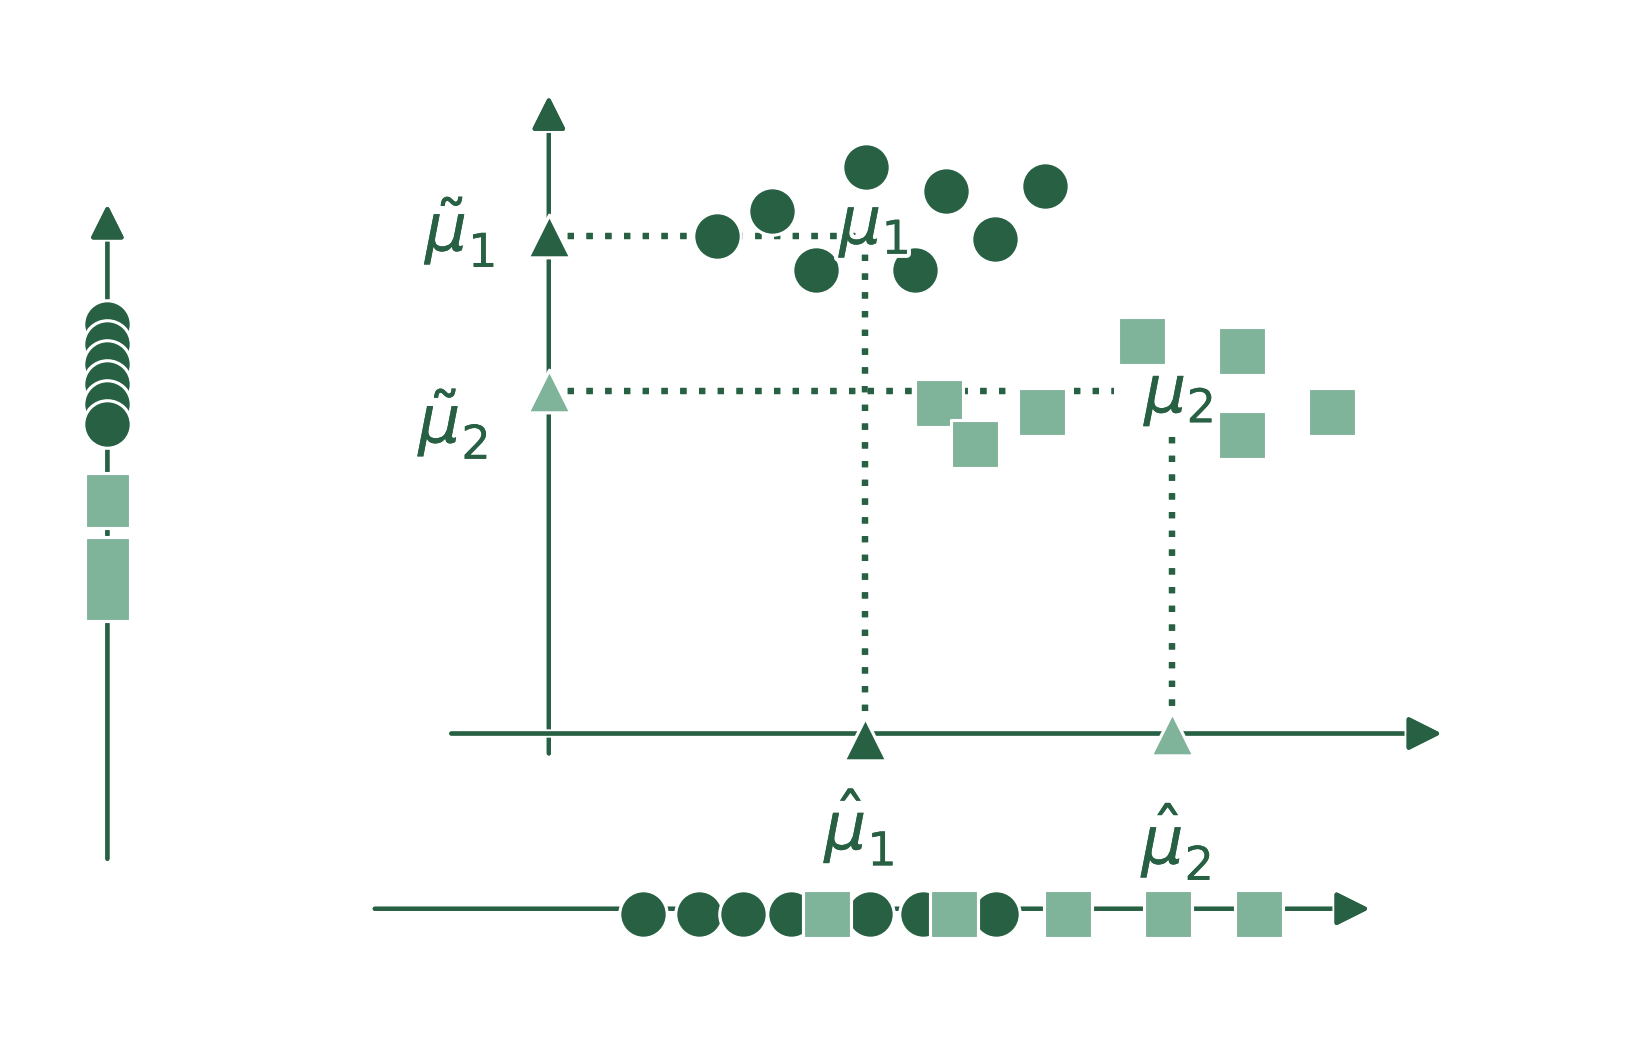
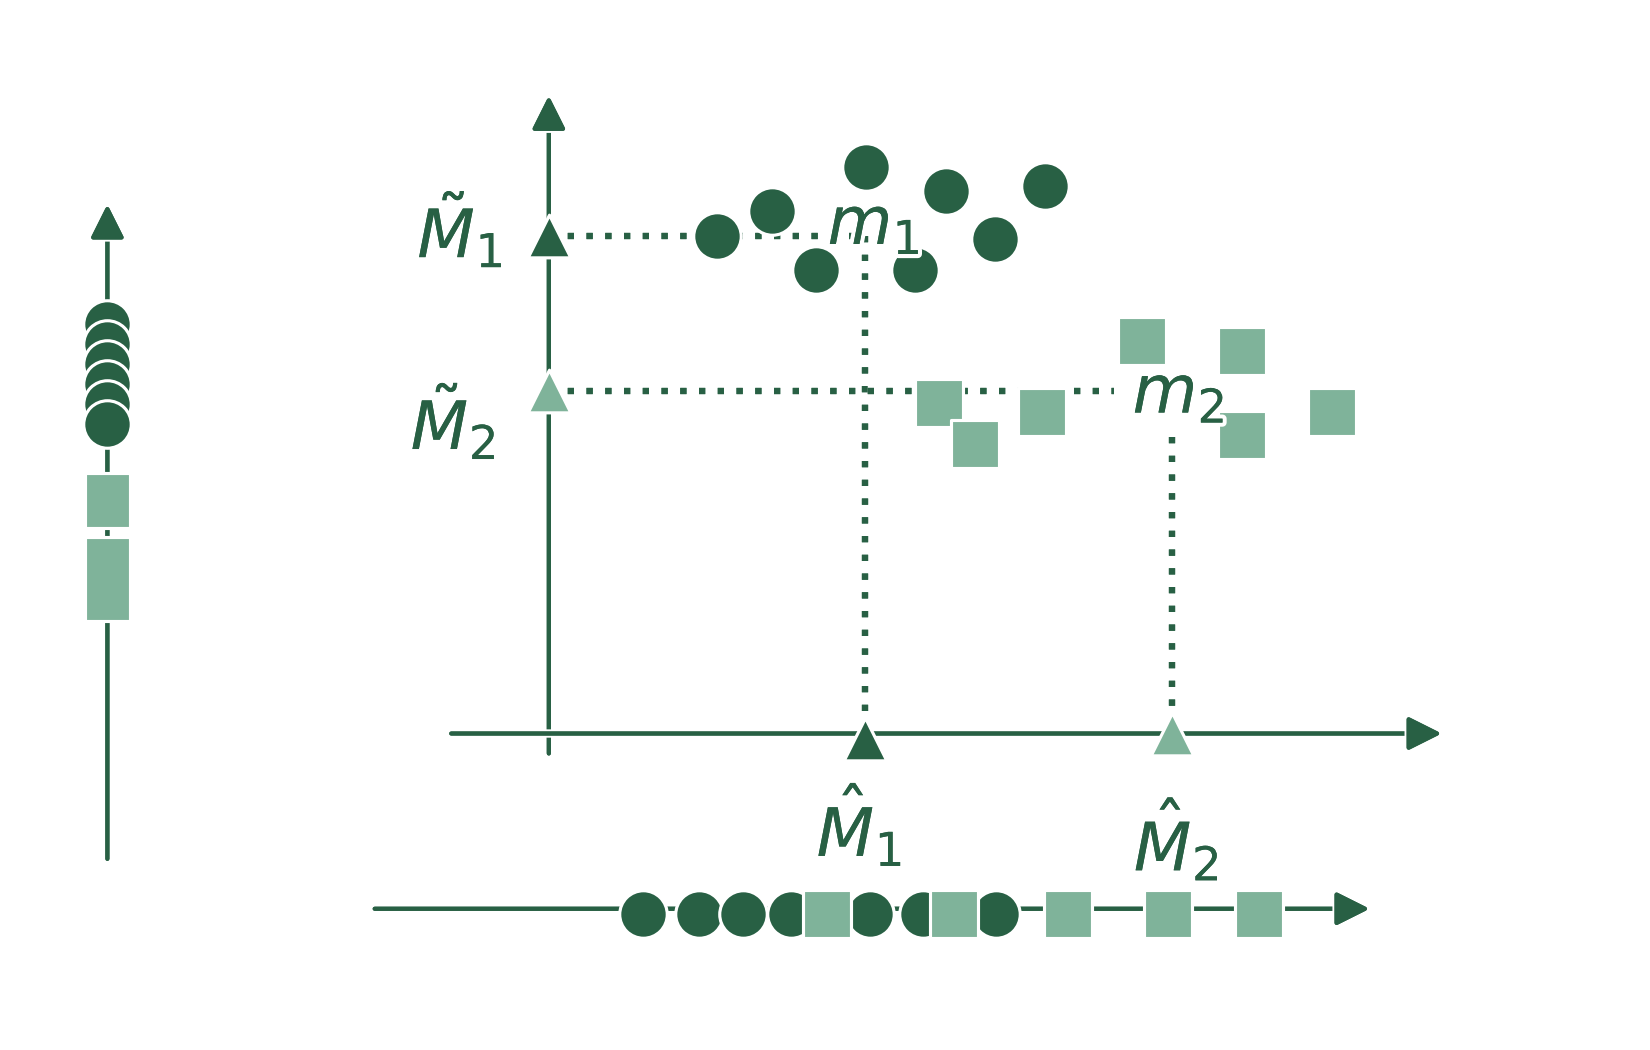
note compose

diff --git a/img_generator/images/maths/lda_fisher.py b/img_generator/images/maths/lda_fisher.py
@@ -95,12 +95,12 @@ def generate(output_path):
                            edgecolor=Colors.HALO, linewidth=1.5))
 
     # --- Étiquettes ---
-    label(ax, 372, 185, r"$\tilde{\mu}_1$")
-    label(ax, 366, 358, r"$\tilde{\mu}_2$")
-    label(ax, 745, 180, r"$\mu_1$")
-    label(ax, 1020, 332, r"$\mu_2$")
-    label(ax, 732, 722, r"$\hat{\mu}_1$")
-    label(ax, 1018, 735, r"$\hat{\mu}_2$")
+    label(ax, 372, 185, r"$\tilde{M}_1$")
+    label(ax, 366, 358, r"$\tilde{M}_2$")
+    label(ax, 745, 180, r"$m_1$")
+    label(ax, 1020, 332, r"$m_2$")
+    label(ax, 732, 722, r"$\hat{M}_1$")
+    label(ax, 1018, 735, r"$\hat{M}_2$")
 
     return save(fig, output_path)
 

diff --git a/.vault/notes/Papiers/Papiers à lire.md b/.vault/notes/Papiers/Papiers à lire.md
@@ -3,13 +3,14 @@ title: Papiers à lire
 tags:
   - papier
 date: 2026-09-21
-publish: false
+publish: true
 ---
 
-| Nom                                                                            | Sujet                                                                                                 | Lien                                                                                    | Tags | Commentaires                                | Status    |
-| ------------------------------------------------------------------------------ | ----------------------------------------------------------------------------------------------------- | --------------------------------------------------------------------------------------- | ---- | ------------------------------------------- | --------- |
-| GROKKING: GENERALIZATION BEYOND OVERFIT-<br>TING ON SMALL ALGORITHMIC DATASETS | Phénomène où le modèle réussie à généraliser bien après avoir overfitter.                             | https://arxiv.org/pdf/2201.02177                                                        |      | Dépendances très forte aux hyper paramètres | à creuser |
-| Less is More: Recursive Reasoning with Tiny Networks                           | Petit modèle (100M) qui a réussi des perfs pas mal sur des benchmark AGI, suite du papier sur les HRM | https://arxiv.org/pdf/2510.04871<br>                                                    |      |                                             | A lire    |
-| Nested Learning: The Illusion of Deep Learning  <br>Architecture               |                                                                                                       | https://arxiv.org/pdf/2512.24695                                                        |      |                                             |           |
-| gliner et gliner2                                                              | NER plus dynamique et cpu                                                                             | gliner : https://arxiv.org/pdf/2311.08526<br>gliner 2: https://arxiv.org/abs/2507.18546 |      |                                             |           |
-|                                                                                |                                                                                                       |                                                                                         |      |                                             |           |
+| Nom                                                                            | Sujet                                                                                                       | Lien                                                                                    | Tags | Commentaires                                | Status    |
+| ------------------------------------------------------------------------------ | ----------------------------------------------------------------------------------------------------------- | --------------------------------------------------------------------------------------- | ---- | ------------------------------------------- | --------- |
+| GROKKING: GENERALIZATION BEYOND OVERFIT-<br>TING ON SMALL ALGORITHMIC DATASETS | Phénomène où le modèle réussie à généraliser bien après avoir overfitter.                                   | https://arxiv.org/pdf/2201.02177                                                        |      | Dépendances très forte aux hyper paramètres | à creuser |
+| Less is More: Recursive Reasoning with Tiny Networks                           | Petit modèle (100M) qui a réussi des perfs pas mal sur des benchmark AGI, suite du papier sur les HRM       | https://arxiv.org/pdf/2510.04871<br>                                                    |      |                                             | A lire    |
+| Nested Learning: The Illusion of Deep Learning  <br>Architecture               |                                                                                                             | https://arxiv.org/pdf/2512.24695                                                        |      |                                             |           |
+| gliner et gliner2                                                              | NER plus dynamique et cpu                                                                                   | gliner : https://arxiv.org/pdf/2311.08526<br>gliner 2: https://arxiv.org/abs/2507.18546 |      |                                             |           |
+| Sparks of Weight-Space Programming                                             | Les LLM de classe frontière peuvent éditer des poids brut d'un modèle pour l'améliorer sur certaines tâches | https://rikiyat.github.io/blog/weight-space-programming/                                |      |                                             |           |
+|                                                                                |                                                                                                             |                                                                                         |      |                                             |           |

diff --git a/.vault/notes/Divers/Docker/Override compose.md b/.vault/notes/Divers/Docker/Override compose.md
@@ -1,0 +1,129 @@
+---
+title: Override compose
+tags:
+  - docker
+  - compose
+  - override
+date: 2026-11-03
+publish: true
+---
+# Override dans Docker Compose
+
+## Principe
+
+Compose peut charger **plusieurs fichiers** et les fusionner : le premier sert de base, les suivants viennent **par-dessus** et modifient ou complètent ce qui existe. Les services sont repérés par leur **nom**.
+
+Intérêt : garder un fichier de base commun à tous, et isoler dans d'autres fichiers ce qui dépend de l'environnement (dev, prod, CI) ou de la machine de chacun.
+
+## Deux façons de l'utiliser
+
+### 1. Le fichier d'override implicite
+
+Sans option, `docker compose up` lit automatiquement :
+
+1. `compose.yaml` (ou `compose.yml`, `docker-compose.yml`) : la base
+2. `compose.override.yaml` (ou `compose.override.yml`, `docker-compose.override.yml`) : appliqué par-dessus, s'il existe
+
+C'est pratique pour des réglages **locaux**, souvent non versionnés (`compose.override.yaml` dans le `.gitignore`).
+
+### 2. Les fichiers explicites avec `-f`
+
+```bash
+docker compose -f compose.yml -f compose.prod.yml up -d
+```
+
+- **L'ordre compte** : un fichier écrase ce qui vient avant lui.
+- Dès qu'on passe `-f`, le fichier `compose.override.yaml` **n'est plus chargé automatiquement** : il faut l'ajouter à la main si on le veut.
+- Équivalent par variable d'environnement : `COMPOSE_FILE=compose.yml:compose.prod.yml` (séparateur `:` sous Linux/macOS, `;` sous Windows).
+
+## Exemple
+
+```yaml
+# compose.yml  (base)
+services:
+  front:
+    build: ./front
+    command: npm run dev
+    environment:
+      LOG_LEVEL: debug
+      API_URL: http://api-dev:8000
+    ports:
+      - "4200:4200"
+    volumes:
+      - ./front:/app
+```
+
+```yaml
+# compose.prod.yml  (par-dessus)
+services:
+  front:
+    command: npm run start
+    environment:
+      LOG_LEVEL: warn
+    ports:
+      - "80:4200"
+    volumes: []
+```
+
+Résultat fusionné pour `front` :
+
+|Clé|Résultat|Pourquoi|
+|---|---|---|
+|`command`|`npm run start`|remplacée|
+|`environment.LOG_LEVEL`|`warn`|la variable est écrasée|
+|`environment.API_URL`|`http://api-dev:8000`|conservée (fusion clé par clé)|
+|`ports`|`4200:4200` **et** `80:4200`|liste : les valeurs s'ajoutent|
+|`volumes`|`./front:/app` conservé|`volumes: []` n'efface rien|
+
+Le dernier point est un piège classique : pour **retirer** une valeur, un override vide ne suffit pas, voir plus bas.
+
+## Règles de fusion
+
+|Type de clé|Comportement|
+|---|---|
+|Valeur simple (`image`, `restart`, ...)|Remplacée|
+|Mapping (`environment`, `labels`, `build`, ...)|Fusionné clé par clé|
+|Liste (`ports`, `expose`, `dns`, ...)|Les valeurs de l'override sont **ajoutées**|
+|`volumes`|Fusionnés selon le point de montage dans le conteneur|
+|`command`, `entrypoint`|**Remplacés** en entier|
+
+On peut aussi **ajouter un service** qui n'existe que dans l'override (par exemple un outil de debug).
+
+## Retirer ou remplacer plutôt que fusionner
+
+Compose récent (v2.24 et suivants) propose deux tags YAML :
+
+```yaml
+services:
+  front:
+    ports: !override
+      - "80:4200"        # remplace la liste au lieu de s'y ajouter
+    volumes: !reset []   # supprime complètement la valeur de la base
+```
+
+## Vérifier le résultat
+
+```bash
+docker compose -f compose.yml -f compose.prod.yml config
+```
+
+Affiche le fichier final après fusion, avec les variables substituées. C'est le réflexe à avoir avant de lancer.
+
+## Pièges
+
+- **Chemins relatifs** : ils sont interprétés par rapport au dossier du **premier** fichier (le dossier du projet), pas à celui de l'override.
+- **Ordre des `-f`** : inverser deux fichiers change le résultat.
+- **Listes qui s'accumulent** : deux fichiers qui publient chacun un port s'additionnent, ce qui peut créer un conflit de ports.
+- **Override local oublié** : un `compose.override.yaml` non versionné peut expliquer qu'un projet marche différemment sur deux machines.
+
+## Cas d'usage typiques
+
+- Base commune + `compose.dev.yml` / `compose.prod.yml`
+- Réglages personnels (ports, volumes de debug) dans un `compose.override.yaml` ignoré par git
+- Surcharge pour la CI (images pré-construites, pas de volumes de code)
+
+## Alternatives
+
+- **`extends`** : un service hérite d'un autre, éventuellement d'un autre fichier.
+- **`include`** : inclure un autre fichier Compose entier dans le projet.
+- **Profiles** : définir tous les services dans un même fichier et n'activer que ceux voulus (`--profile`).

diff --git a/.vault/notes/Divers/Docker/Ancres Compose.md b/.vault/notes/Divers/Docker/Ancres Compose.md
@@ -1,0 +1,84 @@
+---
+title: Ancres Compose
+tags:
+  - docker
+  - compose
+  - yaml
+  - anchor
+date: 2026-11-03
+publish: false
+---
+# Ancres YAML et champs `x-` dans Docker Compose
+
+## Objectif
+
+Éviter de dupliquer la configuration commune de plusieurs services (ici, deux modes du même front Angular + BFF sur `:4200`) en la définissant une seule fois et en la réutilisant.
+
+## Les ingrédients
+
+|Élément|Syntaxe|Origine|Rôle|
+|---|---|---|---|
+|Champ d'extension|`x-nom:`|Compose Specification|Clé de premier niveau préfixée par `x-` : ignorée par Compose (ni service, ni réseau, ni volume). Sert d'espace de stockage pour des blocs réutilisables.|
+|Ancre|`&nom`|YAML|Donne un nom au bloc YAML qui suit.|
+|Alias|`*nom`|YAML|Réutilise le bloc ancré.|
+|Fusion (_merge key_)|`<<: *nom`|YAML 1.1|Insère le contenu de l'alias dans le mapping courant, puis on peut écraser ou ajouter des clés.|
+
+## Norme ou convention ?
+
+- **`&`, `*` : norme YAML.** Ancres et alias font partie de la spécification YAML elle-même (yaml.org), donc ils marchent dans tout fichier YAML (GitHub Actions, GitLab CI, Kubernetes...), pas seulement dans Docker.
+- **`<<` : norme YAML 1.1**, absente du cœur de YAML 1.2, mais gérée par presque tous les parseurs, dont celui de Compose.
+- **`x-` : convention de la Compose Specification** (compose-spec.io, ouverte, utilisée par Docker Compose). Un outil qui lit le fichier doit ignorer ces clés, ce qui évite une erreur de validation sur une clé inconnue. Ce n'est pas du YAML mais le même principe existe ailleurs (par exemple `x-...` dans OpenAPI).
+- Les deux sont **indépendants** : on peut ancrer un bloc sans `x-`, mais à la racine du fichier le préfixe `x-` est nécessaire, sinon Compose rejette la clé comme inconnue. La combinaison donne le motif : `x-front` stocke le bloc sans le déclarer comme service, `&front` permet de le réutiliser.
+
+## Exemple
+
+```yaml
+x-front: &front
+  build:
+    context: ./prometeo-front
+    dockerfile: .docker/Dockerfile-dev-front
+  restart: unless-stopped
+  working_dir: /var/www
+  command: sh -c "npm i --prefix ./bff && npm i --prefix ./ui && ./.docker/start-dev.sh"
+  env_file:
+    - prometeo-front/.env.local
+    - prometeo-front/.env.secret.local
+  volumes:
+    - ./prometeo-front:/var/www
+  ports:
+    - "4200:4200"
+    - "9222:9222"
+    - "9229:9229"
+  networks:
+    - prometeo_shared_net
+
+services:
+  front:                      # front branché sur le back de dev
+    <<: *front
+    environment:
+      API_URLS: https://back-dev.example.com
+
+  front-local-back:           # front branché sur un back local
+    <<: *front
+    profiles: ["local-back"]
+    environment:
+      API_URLS: http://backend:8000
+```
+
+Chaque service hérite de tout le bloc `x-front` et ne redéfinit que ce qui change (ici `API_URLS`).
+
+## Points d'attention
+
+- **La fusion est superficielle** : redéfinir une clé de l'ancre (`environment`, `ports`, `volumes`...) remplace sa valeur en entier, sans fusion des sous-clés.
+- **L'ancre doit être définie avant son alias**, dans le même fichier.
+- Les deux services publient les mêmes ports, ils ne peuvent pas tourner ensemble. Les `profiles` permettent d'activer l'un ou l'autre : `docker compose --profile local-back up`.
+- Vérifier le résultat de la fusion avec `docker compose config`.
+
+## Alternatives
+
+- **`extends`** : un service hérite d'un autre, éventuellement d'un autre fichier. Plus explicite, fusion plus fine, plus verbeux.
+- **`include`** ou plusieurs fichiers (`-f` répété) : découper la configuration en fichiers.
+
+## Quand l'utiliser
+
+Peu de variantes, dans un seul fichier, avec une base largement commune : les ancres restent le choix le plus simple.

diff --git a/.vault/notes/Machine learning/bases/Descente de gradient.md b/.vault/notes/Machine learning/bases/Descente de gradient.md
@@ -5,3 +5,30 @@ tags:
 date: 2026-09-21
 publish: false
 ---
+
+
+# Descente de gradient 
+## 1. Problème à résoudre -
+Minimiser une fonction de perte $L(\theta)$ par rapport aux paramètres $\theta$ (poids et biais), cf [[Fonctions d'erreur]] - Pourquoi on ne peut pas résoudre directement : trop de paramètres, pas de solution analytique (sauf cas simples comme la régression linéaire) 
+## 2. Rappels mathématiques -
+Dérivée, dérivée partielle - Gradient $\nabla_\theta L$ : vecteur des dérivées partielles - Propriété clé : le gradient pointe dans la direction de **plus forte croissance** de $L$ 
+## 3. Règle de mise à jour -
+$\theta \leftarrow \theta - \eta \, \nabla_\theta L(\theta)$ - Justification : développement de Taylor à l'ordre 1, $L(\theta + \delta) \approx L(\theta) + \nabla L \cdot \delta$, minimal pour $\delta$ opposé au gradient - Algorithme complet : initialiser, boucle (prédire, perte, gradient, mise à jour), arrêt 
+## 4. Taux d'apprentissage $\eta$ 
+- Trop grand : oscillations, divergence - Trop petit : convergence très lente - Planification du taux (*learning rate schedule*) 
+## 5. Exemples -
+1D : $L(w) = w^2$, calcul à la main sur quelques itérations - Régression linéaire avec MSE : gradient calculé explicitement - Figure : trajectoire sur des courbes de niveau 
+## 6. Variantes selon les données utilisées - 
+Batch (tout le jeu), stochastique (un point), mini-batch (un lot) - Vocabulaire : batch size, itération, epoch - Compromis stabilité / coût de calcul / bruit utile 
+## 7. Améliorations - 
+Momentum - RMSProp, Adam (taux adaptatif par paramètre) - Régularisation / *weight decay* (lien avec le sur-apprentissage) 
+## 8. Lien avec la rétropropagation -
+La descente de gradient *utilise* le gradient, la rétropropagation le *calcule* - Règle de la chaîne : $\frac{\partial L}{\partial w} = \frac{\partial L}{\partial \hat{y}} \cdot \frac{\partial \hat{y}}{\partial z} \cdot \frac{\partial z}{\partial w}$ - Renvoi vers [[Rétropropagation]] si tu en fais une note 
+## 9. Difficultés 
+- Perte non convexe : minima locaux, points selles, plateaux - Gradients qui disparaissent ou explosent (lien avec les activations, cf [[Fonctions d'activation]]) - Mauvais conditionnement (vallées étroites) 
+- 
+## 10. Convergence et critères d'arrêt - 
+- Norme du gradient proche de 0, perte qui stagne, nombre max d'itérations - Suivi de la perte d'entraînement et de validation (arrêt anticipé) 
+
+## 11. Implémentation - 
+- Code minimal en numpy (régression linéaire) - Comparaison avec un optimiseur de bibliothèque# Descente de gradient 

diff --git a/.vault/notes/maths/Réduction de dimension/(LDA) Analyse Discriminante Linéaire.md b/.vault/notes/maths/Réduction de dimension/(LDA) Analyse Discriminante Linéaire.md
@@ -27,7 +27,7 @@ La LDA permet de réduire le nombre de paramètres, on regroupe des ensemble de 
 
 # Principe :
 La LDA est une forme généralisée de la [discrimination linéaire de Fischer.](Fischer_discriminative_analysis.pdf) L'idée générale derrière cette méthode est de projeter les données sur des axes optimaux, c'est à dire qui vont maximiser la distance entre différentes classes et minimiser l'écart entre les points d'une même classe. Plus visuellement on obtiens ceci :
-![[lda_projection.png]]Sur ce schéma on voit que l'on peut obtenir différentes représentations d'un même ensemble de données en fonction de l'axe sur lequel on effectue la projection. On voit clairement que dans le cadre de droite il est beaucoup plus facile de séparer les deux classes de données. 
+![[lda_projection.png]]Sur ce schéma on voit que l'on peut obtenir différentes représentations d'un même ensemble de données en fonction de l'axe sur lequel on effectue la projection. On voit clairement que dans le cas de droite il est beaucoup plus facile de séparer les deux classes de données. 
 
 On va considérer des points $x_{i}$( données) dans un espace de dimension $d$. 
 Ces points appartiennent à deux classes distinctes $C_{1}$ et $C_{2}$ qui contiennent respectivement $N_{1}$ et $N_{2}$ points. Et $N = N_{1} +N_{2}$ 

diff --git a/.vault/notes/Divers/Docker/Compose.md b/.vault/notes/Divers/Docker/Compose.md
@@ -1,0 +1,20 @@
+---
+title: Compose
+tags:
+  - compose
+  - docker
+  - todo
+date: 2026-11-03
+publish: true
+---
+
+# ...
+## Dérivés
+### Ancres
+Une ancre permet de faire hériter plusieurs services d'une base commune. 
+cf [[Ancres Compose]]
+
+### Override
+L'override permet de créer un fichier compose.override.yaml qui vient redéfinir des services ou morceaux de services dans un compose.
+
+cf[[Override compose]]

diff --git a/.vault/notes/Divers/Git.md b/.vault/notes/Divers/Git.md
@@ -164,3 +164,8 @@ Retirer des fichiers staged (et les garder localement)
 ```bash
 git reset ou git restore --staged . 
 ```
+
+Lister si un fichier ou un dossier est suivi par Git:
+```bash
+git ls-files /chemin/du/dossier ou du fichier # renvoie les fichiers suivis ou rien
+```

diff --git a/.vault/notes/Divers/Docker/Docker.md b/.vault/notes/Divers/Docker/Docker.md
@@ -1,0 +1,7 @@
+---
+title: Docker
+tags:
+  - todo
+date: 2026-11-03
+publish: true
+---
